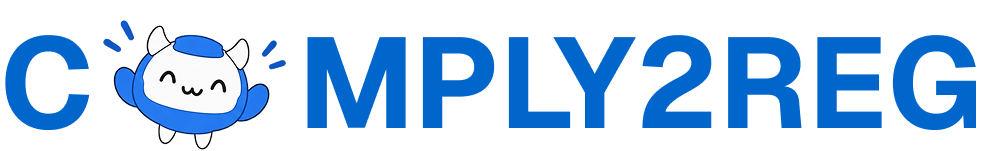
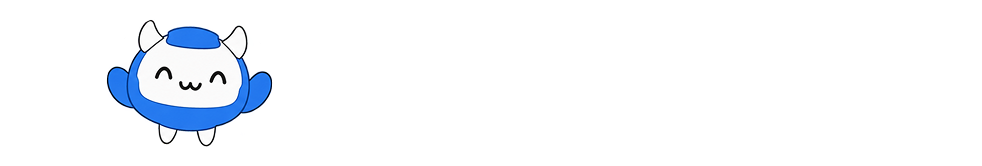
added footer

diff --git a/prototype/src/components/New_Footer.css b/prototype/src/components/New_Footer.css
@@ -5,32 +5,32 @@
 
 .new-footer-wrapper {
   width: 100%;
-  background-color: #ffffff;
+  background-color: var(--color-primary, #0066cc);
   display: flex;
   flex-direction: column;
   position: relative;
 }
 
 /* ---------------------------------------------------------
-   Above-Footer Graphic Lockup
-   Joins and touches the footer top with zero gap
+   Bottom-Footer Graphic Banner
+   Inside footer, pushed to the bottom, under everything
    --------------------------------------------------------- */
-.new-footer-above-banner {
+.new-footer-bottom-banner {
   width: 100%;
   display: flex;
   justify-content: center;
   align-items: flex-end;
-  background-color: #ffffff;
-  padding-top: 64px;
   line-height: 0;
-  margin-bottom: -1px;
+  margin-top: 16px;
+  padding: 0 24px 0;
+  box-sizing: border-box;
   position: relative;
-  z-index: 2;
+  z-index: 1;
 }
 
-.new-footer-above-img {
+.new-footer-bottom-img {
   width: 100%;
-  max-width: 920px;
+  max-width: 980px;
   height: auto;
   display: block;
   margin: 0 auto;
@@ -210,12 +210,13 @@
    Responsive Breakpoints
    --------------------------------------------------------- */
 @media (max-width: 1024px) {
-  .new-footer-above-banner {
-    padding-top: 48px;
+  .new-footer-bottom-banner {
+    margin-top: 14px;
+    padding: 0 20px 0;
   }
 
-  .new-footer-above-img {
-    max-width: 85vw;
+  .new-footer-bottom-img {
+    max-width: 90vw;
   }
 
   .new-footer-container {
@@ -229,12 +230,13 @@
 }
 
 @media (max-width: 768px) {
-  .new-footer-above-banner {
-    padding-top: 36px;
+  .new-footer-bottom-banner {
+    margin-top: 10px;
+    padding: 0 16px 0;
   }
 
-  .new-footer-above-img {
-    max-width: 90vw;
+  .new-footer-bottom-img {
+    max-width: 95vw;
   }
 
   .new-footer-container {

diff --git a/prototype/src/components/New_Footer.jsx b/prototype/src/components/New_Footer.jsx
@@ -6,15 +6,6 @@ import "./New_Footer.css";
 export default function Footer() {
   return (
     <div className="new-footer-wrapper">
-      {/* Above-Footer Graphic: Joins and touches footer top */}
-      <div className="new-footer-above-banner">
-        <img
-          src={`${import.meta.env.BASE_URL}images/above_footer.png`}
-          alt="Comply2Reg"
-          className="new-footer-above-img"
-        />
-      </div>
-
       {/* Main Solid Blue Footer */}
       <footer className="new-footer-main">
         <div className="new-footer-container">
@@ -85,6 +76,15 @@ export default function Footer() {
               © 2026 | Comply2reg all rights reserved.
             </p>
           </div>
+        </div>
+
+        {/* Brand Graphic Banner: Inside footer, pushed to the bottom, under everything */}
+        <div className="new-footer-bottom-banner">
+          <img
+            src={`${import.meta.env.BASE_URL}images/above_footer.png`}
+            alt="Comply2Reg"
+            className="new-footer-bottom-img"
+          />
         </div>
       </footer>
     </div>

diff --git a/prototype/src/components/HeroText.jsx b/prototype/src/components/HeroText.jsx
@@ -3,7 +3,7 @@ import './HeroText.css'
 
 export default function HeroText({
   title,
-  subtitle = "Our proprietary Small Language Model and agents map every rule to policies and controls, close gaps, preserve evidence, hosted securely, human-approved.",
+  subtitle = "It hits Product, Operations, Technology, Risk and Compliance at once. Comply2Reg tells each team what it means for them.",
   demoLink = "/demo",
   onUseCases,
   onHowItWorks,
@@ -26,8 +26,8 @@ export default function HeroText({
       <h1 className="hero-headline">
         {title || (
           <>
-            Regulatory change. <span className="hero-headline-accent">Simplified.</span><br />
-            <span className="hero-headline-sub">Agentic AI, inside your bank.</span>
+            Regulatory change <span className="hero-headline-accent">never stops.</span><br />
+            <span className="hero-headline-sub">Nobody owns what it breaks.</span>
           </>
         )}
       </h1>
